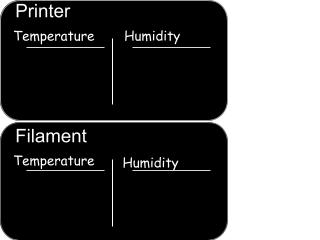
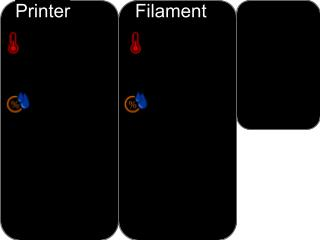
Config touch

diff --git a/src/main.py b/src/main.py
@@ -2,19 +2,45 @@ import adafruit_dht
 import board
 from constants import *
 import adafruit_rgb_display.ili9341 as ili9341
-from modules.loading_screan import LoadingScreen
-from modules.main_screan import MainScreen
 import time
+from modules.screen import Screen
+from modules.number_section import NumberSection
+from modules.light_section import LightSection
+from modules.touch_listener import TouchListener
 
 spi = board.SPI()
 disp = ili9341.ILI9341(spi, rotation=DISPLAY_ROTATION, cs=DISPLAY_CS_PIN, dc=DISPLAY_DC_PIN, rst=DISPLAY_RESET_PIN)
-loadingScreen = LoadingScreen()
+loadingScreen = Screen('resources/loading.png')
 loadingScreen.render(disp)
 
-sensor1 = adafruit_dht.DHT22(board.D5)
+def touch_event(event, duration):
+    print(event, duration)
 
-mainScreen = MainScreen(sensor1)
+touchListener = TouchListener(touch_event)
+
+sensor1 = adafruit_dht.DHT22(SENSOR1_CS)
+sensor2 = adafruit_dht.DHT22(SENSOR2_CS)
+
+def get_sensor_value(sensor, value):
+    def get_value():
+        try:
+            if value == 'temperature':
+                return sensor.temperature
+            elif value == 'humidity':
+                return sensor.humidity
+        except RuntimeError as error:
+            print(error.args[0])
+    return get_value
+
+mainScreen = Screen('resources/main.jpg', [
+    NumberSection(get_sensor_value(sensor1, 'temperature'), 25, 210, 80, 50, 40),
+    NumberSection(get_sensor_value(sensor1, 'humidity'), 85, 210, 80, 50, 40),
+    NumberSection(get_sensor_value(sensor2, 'temperature'), 25, 95, 80, 50, 40),
+    NumberSection(get_sensor_value(sensor2, 'humidity'), 85, 95, 80, 50, 40),
+    LightSection()
+])
 
 while True:
+    touchListener.check_touch()
     mainScreen.render(disp)
-    time.sleep(1)
+    time.sleep(0.2)

diff --git a/src/modules/touch_listener.py b/src/modules/touch_listener.py
@@ -1,0 +1,32 @@
+import time
+import board
+import digitalio
+from modules.cpy_xpt2046 import Touch
+from constants import TOUCH_CS, TOUCH_EVENT
+
+class TouchListener(object):
+    touch_x_min = 100
+    touch_x_max = 1930
+    touch_y_min = 160
+    touch_y_max = 1905
+    last_state = True
+
+    def __init__(self, event_callback):
+        self.touch = Touch(board.SPI(), cs=TOUCH_CS,
+                x_min=self.touch_x_min, x_max=self.touch_x_max,
+                y_min=self.touch_y_min, y_max=self.touch_y_max)
+        self.event_callback = event_callback
+        self.pin = digitalio.DigitalInOut(TOUCH_EVENT)
+        self.pin.direction = digitalio.Direction.INPUT
+        self.pin.pull = digitalio.Pull.DOWN
+
+    def check_touch(self):
+        current_state = self.pin.value
+        if current_state != self.last_state:
+            self.last_state = current_state
+            if current_state == False:
+                self.start_time = time.time()
+                self.event_callback('touch_down', 0)
+            else:
+                end_time = time.time()
+                self.event_callback('touch_up', (end_time - self.start_time))

diff --git a/src/modules/number_section.py b/src/modules/number_section.py
@@ -1,0 +1,28 @@
+from PIL import Image, ImageDraw, ImageFont
+
+class NumberSection(object):
+
+    prevValue = None
+
+    def __init__(self, get_value, x = 0, y = 0, w = 100, h = 100, font_size = 20):
+        self.get_value = get_value
+        self.x = x
+        self.y = y
+        self.w = w
+        self.h = h
+        self.font_size = font_size
+        self.image = Image.new('RGB', (w, h))
+        self.font = ImageFont.load_default(self.font_size)
+
+    def render(self, disp):
+        value = self.get_value()
+        if value != None and value != self.prevValue:
+            self.prevValue = value
+
+            draw = ImageDraw.Draw(self.image)
+            draw.rectangle([(0, 0), (self.w, self.h)], fill="black")
+            draw.text((0, 0),f"{value:.1f}", font=self.font, fill=(0, 255, 255))
+            disp.image(self.image, None, self.x, self.y)
+
+    def clear_state(self):
+        self.prevValue = None

diff --git a/src/modules/light_section.py b/src/modules/light_section.py
@@ -1,0 +1,27 @@
+from PIL import Image, ImageDraw, ImageFont
+
+class LightSection(object):
+    light_images = None
+
+    rendered = False
+    level = 0
+
+    def __init__(self):
+        if LightSection.light_images == None:
+            LightSection.light_images = [Image.open(f"resources/light{i}.jpg") for i in range(1, 6)]
+
+    def increase_level(self):
+        self.level = self.level + 1
+        if self.level >= 5:
+            self.level = 0
+        print(self.level)
+        self.rendered = False
+
+    def render(self, disp):
+        self.increase_level()
+        if self.rendered == False:
+            self.rendered = True
+            disp.image(LightSection.light_images[self.level])
+
+    def clear_state(self):
+        self.rendered = False

diff --git a/src/modules/screen.py b/src/modules/screen.py
@@ -1,0 +1,21 @@
+from PIL import Image, ImageDraw, ImageFont
+from adafruit_rgb_display import color565
+
+class Screen(object):
+    rendered = False
+
+    def __init__(self, background, sections = []):
+        self.backgroundImg = Image.open(background)
+        self.sections = sections
+
+    def render(self, disp):
+        if self.rendered == False:
+            disp.image(self.backgroundImg)
+            self.rendered = True
+        for section in self.sections:
+            section.render(disp)
+
+    def clear_state(self):
+        self.rendered = False
+        for section in self.sections:
+            section.clear_state()

diff --git a/src/constants.py b/src/constants.py
@@ -5,3 +5,9 @@ DISPLAY_CS_PIN = digitalio.DigitalInOut(board.CE0)
 DISPLAY_DC_PIN = digitalio.DigitalInOut(board.D13)
 DISPLAY_RESET_PIN = digitalio.DigitalInOut(board.D23)
 DISPLAY_ROTATION = 90
+
+SENSOR1_CS = board.D5
+SENSOR2_CS = board.D16
+
+TOUCH_CS = board.CE1
+TOUCH_EVENT = board.D26
